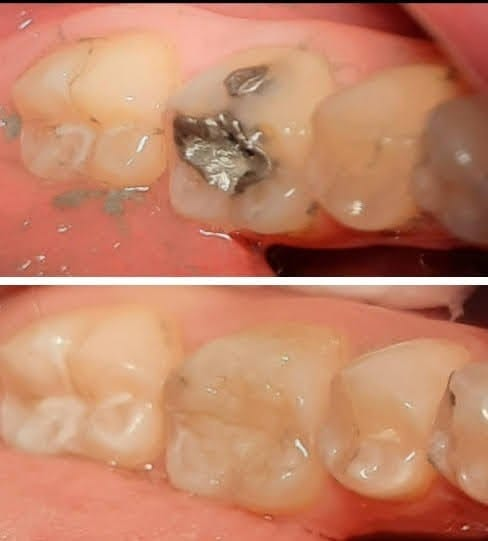
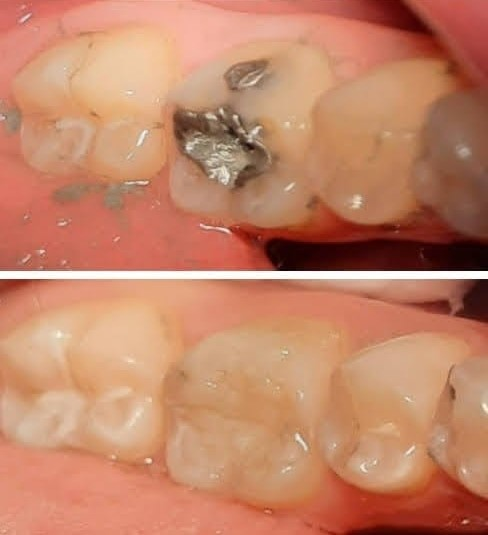
configuring Home and fixing routes names

diff --git a/src/js/component/home.js b/src/js/component/home.js
@@ -5,6 +5,7 @@ import fotoDany from "../../img/wallpaper.jpg";
 import tapadurasResina from "../../img/tapaduras-de-resina.jpg";
 import botox from "../../img/Inyección-de-botox.jpg";
 import tuboVale from "../../img/Vale-tubo.jpg"
+import iconDP from "../../img/iconDP2.jpg";
 
 const Home = () => {
   return <>
@@ -16,9 +17,10 @@ const Home = () => {
             <div className="col-lg-8 col-xl-7 col-xxl-6">
               <div className="my-5 text-center text-xl-start">
                 <h1 className="display-5 fw-bolder text-white mb-2">
-                  Clientes más felices
+                  Dra. Dany:<br></br>
+                  Odontología y Estética
                 </h1>
-                <p className="lead fw-normal text-white-50 mb-4">
+                <p className="lead fw-bolder text-white-50 mb-4">
                   Nuestra misión es crear sonrisas.
                   Recupera tu sonrisa en una semana.
                   También haz que tu rostro sonría y que tu felicidad sea su mejor regalo.
@@ -30,7 +32,7 @@ const Home = () => {
                   >
                     Agendar Cita
                   </Link>
-                  <Link className="btn btn-outline-light btn-lg px-4" to="#!">
+                  <Link className="btn btn-outline-light btn-lg px-4" to="/odontologia">
                     Conocer más...
                   </Link>
                 </div>
@@ -44,7 +46,7 @@ const Home = () => {
               />
             </div> */}
       {/* Carousel*/}
-      <div id="carousel" className="carousel slide col-xl-5 col-xxl-6 d-none d-xl-block text-center">
+      <div id="carousel" className="carousel slide col-lg-4 col-xl-5 col-xxl-6 d-xl-block text-center">
               <div className="carousel-indicators">
                 <button
                   type="button"
@@ -72,34 +74,47 @@ const Home = () => {
                   data-bs-slide-to={3}
                   aria-label="Slide 4"
                 />
+                <button
+                  type="button"
+                  data-bs-target="#carousel"
+                  data-bs-slide-to={4}
+                  aria-label="Slide 5"
+                />
               </div>
               <div className="carousel-inner">
                 <div className="carousel-item active">
-                  <img src={fotoDany} className="Dany rounded-3 p-2 m-1" alt="..." />
+                  <img src={fotoDany} className="Dany rounded-3" alt="mesoterapia: Dra Dany con inyección de vitaminas"/>
                   <div className="carousel-caption d-none d-md-block" id="description">
                     <h5>Mesoterapia con dermapen</h5>
                     <p>Inyección de vitaminas, ácido hialurónico y coctéles.</p>
                   </div>
                 </div>
                 <div className="carousel-item">
-                  <img src= {tapadurasResina} className="Dany rounded-3 p-2 m-1" alt="..." />
+                  <img src= {tapadurasResina} className="Dany rounded-3" alt="tapadura de amalgama v/s tapadura de resina blanca" />
                   <div className="carousel-caption d-none d-md-block" id="description">
                     <h5>Tapaduras blancas</h5>
                     <p>Cambio de amalgama por tapadura de resina, desde $ 40.000</p>
                   </div>
                 </div>
                 <div className="carousel-item">
-                  <img src= {botox} className="Dany rounded-3 p-2 m-1" alt="..." />
+                  <img src= {botox} className="Dany rounded-3" alt="Dra. Dany aplicando bótox a paciente en la frente" />
                   <div className="carousel-caption d-none d-md-block" id="description">
                     <h5>Aplicación de bótox</h5>
                     <p>Aplicación por zonas desde los $ 90.000</p>
                   </div>
                 </div>
                 <div className="carousel-item">
-                  <img src= {tuboVale} className="Dany rounded-3 p-2 m-1" alt="..." />
+                  <img src= {tuboVale} className="Dany rounded-3" alt="Niña feliz mientras es atendida" />
                   <div className="carousel-caption d-none d-md-block" id="description">
                     <h5>Odontopediatría</h5>
                     <p>Atención integral para niños desde el primer añito.</p>
+                  </div>
+                </div>
+                <div className="carousel-item">
+                  <img src= {iconDP} className="Dany rounded-3" alt="logo corporativo" />
+                  <div className="carousel-caption d-none d-md-block" id="description">
+                    <h5>Dra. Dany</h5>
+                    {/* <p>Odontología y Estética facial</p> */}
                   </div>
                 </div>
               </div>
@@ -130,7 +145,7 @@ const Home = () => {
         <div className="container px-5 my-5">
           <div className="row gx-5">
             <div className="col-lg-4 mb-5 mb-lg-0">
-              <h2 className="fw-bolder mb-0">Marcando la diferencia:</h2>
+              <h2 className="fw-bolder text-white mb-0">Marcando la diferencia:</h2>
             </div>
             <div className="col-lg-8">
               <div className="row gx-5 row-cols-1 row-cols-md-2">
@@ -138,7 +153,7 @@ const Home = () => {
                   <div className="feature bg-primary bg-gradient text-white rounded-3 mb-3">
                     <i className="bi bi-collection" />
                   </div>
-                  <h2 className="h5"><i className="fa-solid fa-magnifying-glass-chart"/> Diagnóstico integral</h2>
+                  <h2 className="h5 text-white-50"><i className="fa-solid fa-magnifying-glass-chart"/> Diagnóstico integral</h2>
                   <p className="mb-0">
                     Paragraph of text beneath the heading to explain the heading.
                     Here is just Link bit more text.
@@ -148,7 +163,7 @@ const Home = () => {
                   <div className="feature bg-primary bg-gradient text-white rounded-3 mb-3">
                     <i className="bi bi-building" />
                   </div>
-                  <h2 className="h5"><i className="fa-solid fa-hand-holding-dollar"/> Métodos de pago</h2>
+                  <h2 className="h5 text-white-50"><i className="fa-solid fa-hand-holding-dollar"/> Métodos de pago</h2>
                   <p className="mb-0">
                     Paragraph of text beneath the heading to explain the heading.
                     Here is just Link bit more text.
@@ -158,7 +173,7 @@ const Home = () => {
                   <div className="feature bg-primary bg-gradient text-white rounded-3 mb-3">
                     <i className="bi bi-toggles2" />
                   </div>
-                  <h2 className="h5">Productos de alta gama</h2>
+                  <h2 className="h5 text-white-50"><i className="fa-solid fa-briefcase-medical"/> Productos de alta gama</h2>
                   <p className="mb-0">
                     Paragraph of text beneath the heading to explain the heading.
                     Here is just Link bit more text.
@@ -168,7 +183,7 @@ const Home = () => {
                   <div className="feature bg-primary bg-gradient text-white rounded-3 mb-3">
                     <i className="bi bi-toggles2" />
                   </div>
-                  <h2 className="h5">Confianza profesional</h2>
+                  <h2 className="h5 text-white-50"><i className="fa-solid fa-user-doctor"/> Confianza profesional</h2>
                   <p className="mb-0">
                     Paragraph of text beneath the heading to explain the heading.
                     Here is just Link bit more text.

diff --git a/src/js/layout.js b/src/js/layout.js
@@ -3,11 +3,11 @@ import { BrowserRouter, Route, Switch } from "react-router-dom";
 
 import Navbar from "./component/Navbar";
 import Home from "./component/home";
-import About from "./component/about";
+import NuestraMision from "./component/nuestra-mision";
 import Contact from "./component/contact";
 import Pricing from "./component/pricing";
 import Faq from "./component/faq";
-import BlogHome from "./component/blog-home";
+import Odontologia from "./component/odontologia";
 import BlogPost from "./component/blog-post";
 import PortfolioOverview from "./component/portfolio-overview";
 import PortfolioItem from "./component/portfolio-item";
@@ -27,8 +27,8 @@ const Layout = () => {
 					<Route exact path={"/"} >
 						<Home />
 					</Route>
-					<Route exact path={"/about"} >
-						<About />
+					<Route exact path={"/nuestra-mision"} >
+						<NuestraMision />
 					</Route>
 					<Route exact path={"/contact"} >
 						<Contact />
@@ -39,8 +39,8 @@ const Layout = () => {
 					<Route exact path={"/faq"}>
 						<Faq />
 					</Route>
-					<Route exact path={"/blog-home"} >
-						<BlogHome />
+					<Route exact path={"/odontologia"} >
+						<Odontologia />
 					</Route>
 					<Route exact path={"/blog-post"} >
 						<BlogPost />

diff --git a/src/js/component/navbar.js b/src/js/component/navbar.js
@@ -30,7 +30,7 @@ const Navbar = () => {
                             </NavLink>
                         </li>
                         <li className="nav-item">
-                            <NavLink className="nav-link" to="/about">
+                            <NavLink className="nav-link" to="/nuestra-mision">
                                 Nuestra misión
                             </NavLink>
                         </li>
@@ -50,7 +50,7 @@ const Navbar = () => {
                                 aria-labelledby="navbarDropdownBlog"
                             >
                                 <li>
-                                    <NavLink className="dropdown-item" to="/blog-home">
+                                    <NavLink className="dropdown-item" to="/odontologia">
                                         Odontología
                                     </NavLink>
                                 </li>

diff --git a/src/styles/index.css b/src/styles/index.css
@@ -2,8 +2,12 @@
     General Styles
 */
 
+/* --Color Palette--
+blueviolet
+rgb(216, 96, 216)
+rgb(240, 155, 240)) */
 .flex-shrink-0{
-  background-image: linear-gradient(90deg,blueviolet,rgb(192, 48, 192), rgb(255, 119, 255));
+  background-image: linear-gradient(90deg,blueviolet,rgb(216, 96, 216), rgb(240, 155, 240));
 }
 
 .bg-dark, .bg-light {
@@ -58,14 +62,14 @@
 
 /* Photos of Carousel */
 .Dany {
-    border-radius: 50%;
+    /* border-radius: 1rem; */
     border-style: solid;
     border-width: 1px;
     border-color: blueviolet;
     background-size: cover;
     background-attachment: fixed; 
     width: 480px;
-    height: 460px;
+    height: 480px;
 }
 #description{
   color: white;
@@ -80,6 +84,7 @@
   background-color: rgba(82, 1, 82);
 }
 
+/* Buttons */
 .btn-primary, .bg-gradient{
   background-color: purple;
 }

diff --git a/src/js/component/nuestra-mision.js b/src/js/component/nuestra-mision.js
@@ -1,7 +1,7 @@
 import React from 'react';
-import { NavLink, Link} from "react-router-dom";
+import { NavLink } from "react-router-dom";
 
-const About = () => {
+const NuestraMision = () => {
 return <>
     <main className="flex-shrink-0">
         {/* Header*/}
@@ -136,4 +136,4 @@ return <>
 </>
 }
 
-export default About;
+export default NuestraMision;

diff --git a/src/js/component/odontologia.js b/src/js/component/odontologia.js
@@ -1,7 +1,7 @@
 import React from 'react';
 import { NavLink,Link } from "react-router-dom";
 
-const BlogHome = () => {
+const Odontologia = () => {
 return <>
     <main className="flex-shrink-0">
     {/* Page Content*/}
@@ -263,4 +263,4 @@ return <>
 
 }
 
-export default BlogHome;
+export default Odontologia;
